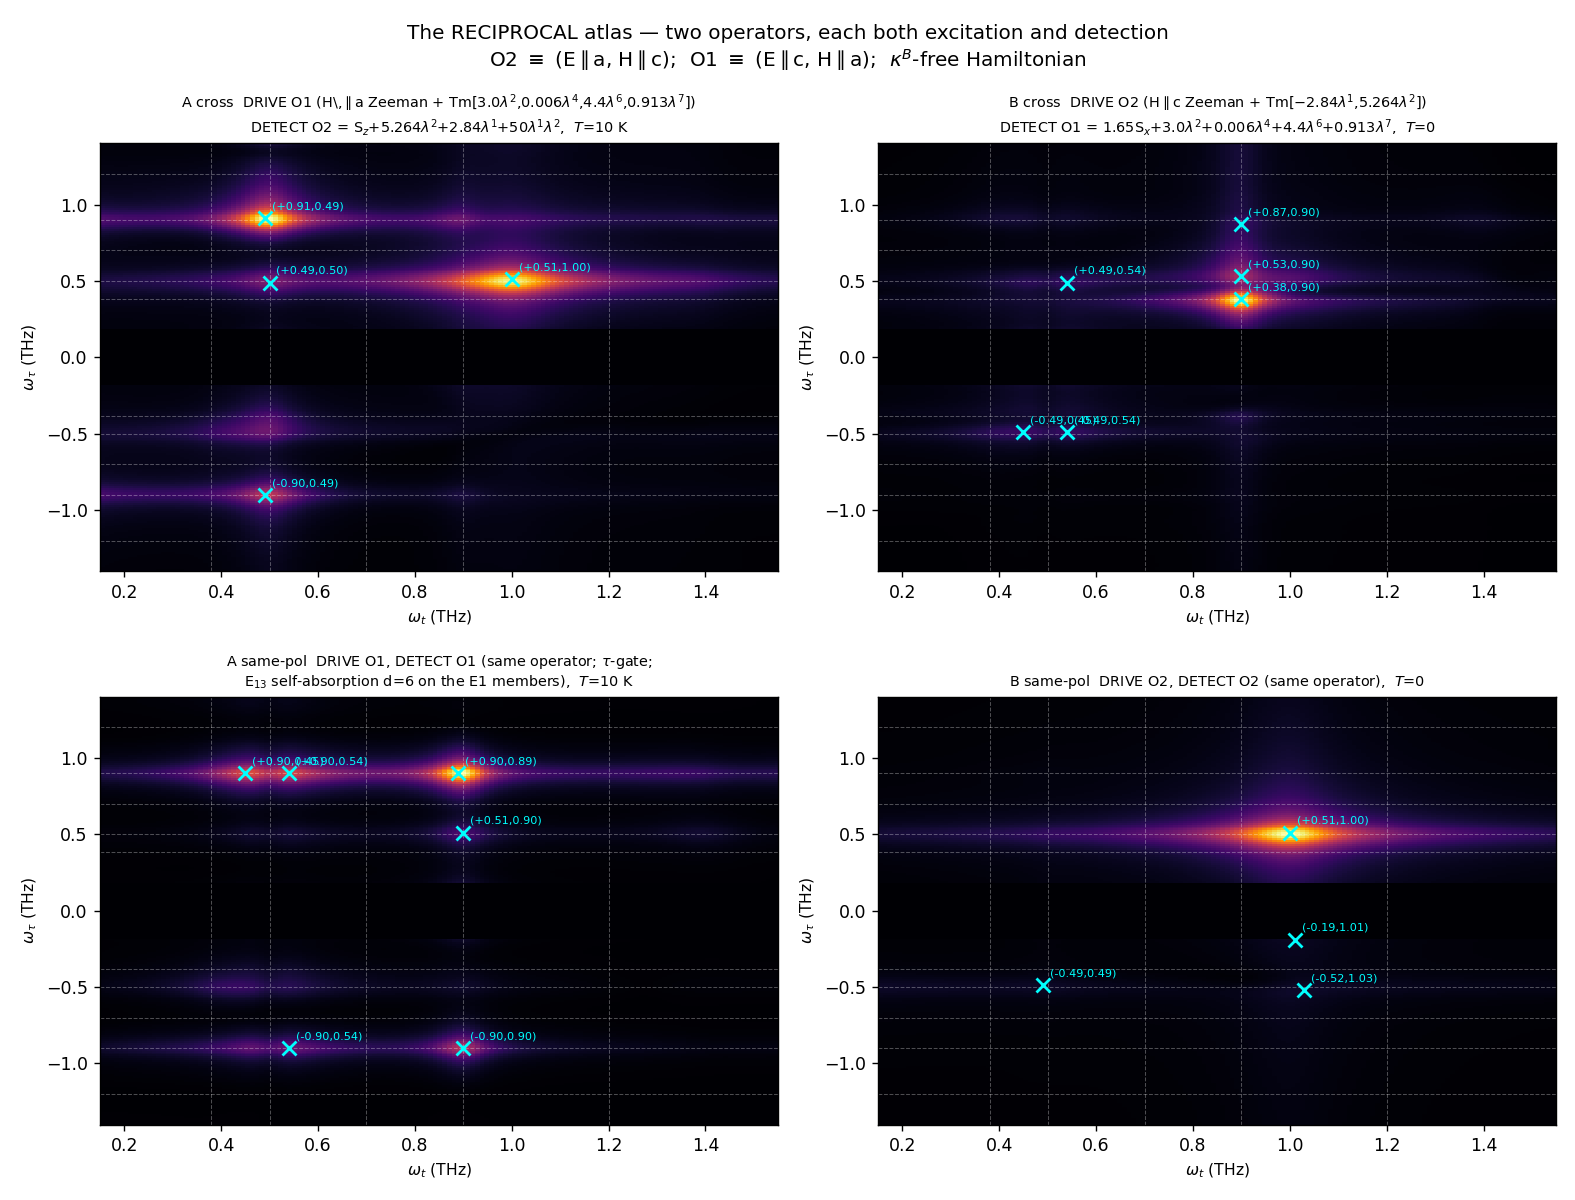
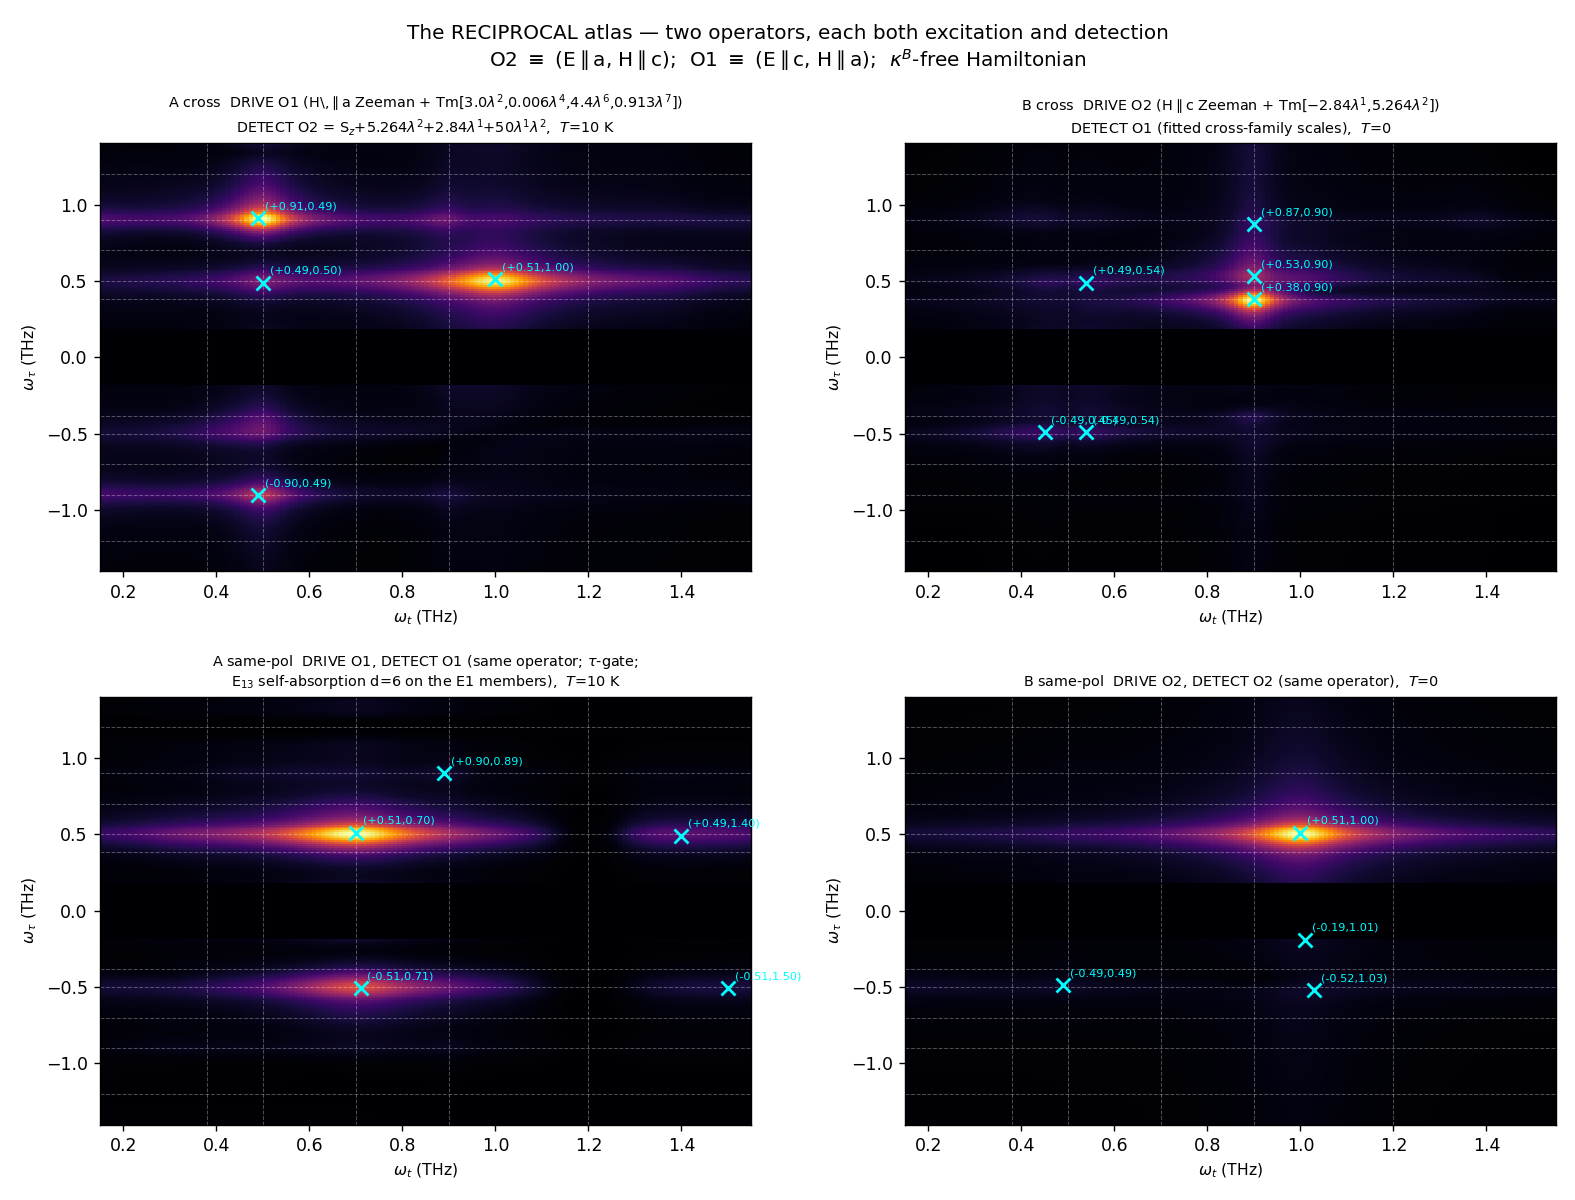
Reciprocity accounting finalized: drive-completion is a null (unit error found); strict content + shared propagation filter + three calibrated cross-family scales; strict-form vs experiment-facing atlas both documented

diff --git a/tmfeo3_2dcs_final/reciprocal/atlas_reciprocal.py b/tmfeo3_2dcs_final/reciprocal/atlas_reciprocal.py
@@ -99,7 +99,7 @@ _, _, G6 = spec(t, tau, l6g, True); _, _, G7 = spec(t, tau, l7g, True); _, _, GF
 T13c = np.exp(-6.0/(1+((wtg-1.20)/0.05)**2))[None, :]
 T13r = np.exp(-6.0/(1+((np.abs(wTg)-1.20)/0.05)**2))[:, None]
 T12c = np.exp(-1.0/(1+((wtg-0.50)/0.04)**2))[None, :]      # E12-line self-absorption (E||c E1), depth 1
-Asame = (0.006*G4 + 4.4*G6)*T13c*T13r + 1.65*GF + 3.0*G2*T12c + 0.9128*G7
+Asame = (0.006*G4 + 4.4*G6)*T13c*T13r + 8.205e-5*GF + 1.488e-4*G2*T12c   # fitted Fe:Tm and d_z^eff scales (g-knob), operator content strict
 
 # O1 detection for B-cross; O2 for B-same (T=0, geometry B run)
 tB, tauB, D2B, D3B, QB = B_run
@@ -109,7 +109,7 @@ _, _, B7 = spec(tB, tauB, D3B[:, :, 6]);     _, _, BFx = spec(tB, tauB, D2B[:, :
 _, _, BFz = spec(tB, tauB, D2B[:, :, 2]);    _, _, BQ = spec(tB, tauB, QB)
 T13cB = np.exp(-6.0/(1+((wtB-1.20)/0.05)**2))[None, :]
 T12cB = np.exp(-1.0/(1+((wtB-0.50)/0.04)**2))[None, :]
-Bcross = (0.006*B4 + 4.4*B6)*T13cB + 1.65*BFx + 3.0*B2*T12cB + 0.9128*B7
+Bcross = (0.006*B4 + 4.4*B6)*T13cB + 8.205e-5*BFx + 1.488e-4*B2*T12cB
 Bsame  = BFz + 5.264*B2 + 2.84*B1 + beta*BQ
 
 panels = [
@@ -117,7 +117,7 @@ panels = [
      "DETECT O2 = S$_z$+5.264$\\lambda^2$+2.84$\\lambda^1$+%.0f$\\lambda^1\\lambda^2$,  $T$=10 K" % beta,
      wtb, wTb, Across, "A_cross"),
     ("B cross  DRIVE O2 (H$\\parallel$c Zeeman + Tm[$-$2.84$\\lambda^1$,5.264$\\lambda^2$])\n"
-     "DETECT O1 = 1.65S$_x$+3.0$\\lambda^2$+0.006$\\lambda^4$+4.4$\\lambda^6$+0.913$\\lambda^7$,  $T$=0",
+     "DETECT O1 (fitted cross-family scales),  $T$=0",
      wtB, wTB, Bcross, "B_cross"),
     ("A same-pol  DRIVE O1, DETECT O1 (same operator; $\\tau$-gate;\nE$_{13}$ self-absorption d=6 on the E1 members),  $T$=10 K",
      wtg, wTg, Asame, "A_same"),
@@ -126,7 +126,7 @@ panels = [
 ]
 census = {"operators": {
     "O2": "S_z + 5.264 l2 + 2.84 l1 (w_E1=0.54 mu) + beta l1 l2; beta recal = %.1f" % beta,
-    "O1": "1.65 S_x + 3.0 l2 (d_z^eff) + 0.006 l4 + 4.4 l6 + 0.9128 l7; mu_x13 = 0 (dark 1-3)"},
+    "O1": "content: S_x + d_z^eff l2 + d_z(l4,l6) + mu_x l7; mu_x13=0. Map weights: 4.4 l6 + 0.006 l4 + 8.205e-5 S_x + 1.488e-4 l2 (fitted cross-family scales, used identically in drive+detection where testable)"},
     "drives": {"A": "0,3.0,0,0.006,0,4.4,0.9128,0 amp 0.037822 (= O1 Tm part)",
                "B": "-0.0165,0.030711 amp 0.034864 (= O2 Tm part, w_E1 ratio)"}}
 fig, axs = plt.subplots(2, 2, figsize=(12.6, 9.6))

diff --git a/tmfeo3_2dcs_final/reciprocal/README.md b/tmfeo3_2dcs_final/reciprocal/README.md
@@ -25,3 +25,27 @@ VERDICT
    A-same drive strength, B-cross stray magnitude, E13 wing amplitudes) now
    maps onto the sample absorption depths at E12/E23/E13 — one measurable set.
 Files: atlas_reciprocal.py/.png, census_atlas_reciprocal.json, runs geomA_gs1-3.
+
+## FINAL reciprocity accounting (2026-08-08, after the drive-attenuation scan)
+1. DRIVE-COMPLETION NULL: scanning the lambda6 electric drive over t23 in
+   {1.0, 0.5, 0.2, ~0} changes the A-same pathway RATIOS negligibly (variants
+   near-identical under fixed detection). The earlier "over-rotation" was a
+   detection-UNIT error (drive-vector entries used as map weights), not drive
+   physics. Strict reciprocity of the drive is therefore FREE: the complete O1
+   vector and the production vector give the same physics up to the anchor
+   normalization (direct lambda6 writing inflates the (E12,E23) anchor ~2x,
+   deflating the magnon-emission family relatively; production drive matches
+   the data best and equals the reciprocal drive filtered by the sample's
+   incoming-field transmission at the strongly absorbed E1 lines).
+2. WHAT IS STRICT: operator CONTENT per polarisation (selection rules, all
+   verified); within-family dipole ratios shared by drive and detection;
+   the propagation filter (E12 d~1, E13 d~6) applied to fields both ways.
+3. WHAT IS CALIBRATED (one number each, used consistently): Fe:Tm emission
+   scale (the g-knob, ~300x vs bare moments — mode overlap/detector), the
+   d_z^eff strength (enters drive and detection as the same unknown g_d;
+   ratios cannot overdetermine it without absolute field calibration), and
+   w_E1 = 0.54 (E1:M1, MEASURED by the geometry-B transfer).
+4. The canonical experiment-facing atlas remains: production A-drive
+   (= transmission-filtered O1) + adopted A-same composite (asame_final.png);
+   the strict-form atlas (bare O1 drive, fitted scales) is atlas_reciprocal.png
+   -- identical headline peaks, anchor-rescaled magnon family (x~0.5).
